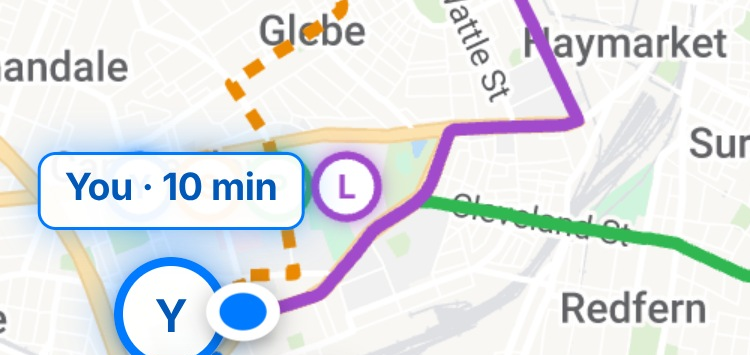
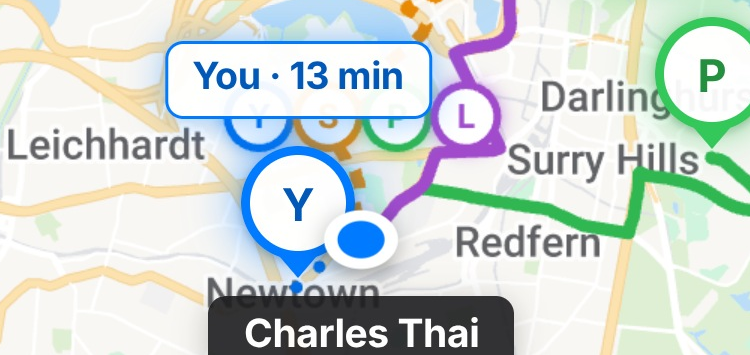
Advert: footage re-captured with a phone's safe areas; dive onto the wordmark's dot; crash framing keeps every time in
Claude-Session: https://claude.ai/code/session_01Lw4AcJbjKn2ALgeq2w8Nf1

diff --git a/promo/src/shots/Opening.tsx b/promo/src/shots/Opening.tsx
@@ -40,10 +40,13 @@ const TAPS = [
   { ...SEND_UP, t: O.sendTap },
 ];
 
+/** The dive's target on Meet's start screen (app px): the end of the wordmark, its blue dot. */
+const WORD = { x: 242, y: 333 };
+
 // "But where?": the 4th incoming bubble's centre (app px), and the field.
 const WHERE_AT = onScreen(98, 403);
 const FIELD_AT = onScreen(190, 803);
-const WORD_AT = onScreen(185, 302); // Meet's wordmark on its start screen
+const WORD_AT = onScreen(WORD.x, WORD.y); // Meet's wordmark on its start screen
 const MEET_AT = onScreen(66.75, 149); // Meet's icon on page 2
 
 /** The shared-element curve (card transition-travel A): 25f to 1.03, then 10f back to 1. */
@@ -86,7 +89,7 @@ export const openingCam = (f: number): Cam => {
     const p = morphP(f, O.launch);
     const icon = iconBox(0, 0);
     const ow = lerp(icon.w, 390, p), ox = lerp(icon.x, 0, p), oy = lerp(icon.y, 0, p);
-    const now = onScreen(ox + 185 * (ow / 390), oy + 302 * (ow / 390));
+    const now = onScreen(ox + WORD.x * (ow / 390), oy + WORD.y * (ow / 390));
     const t = Easing.in(Easing.quad)(Math.min(1, (f - O.launch) / (O.end - O.launch)));
     base.x += (now.x - WORD_AT.x) * t;
     base.y += (now.y - WORD_AT.y) * t;

diff --git a/promo/src/shots/Race.tsx b/promo/src/shots/Race.tsx
@@ -75,8 +75,8 @@ export const Race: React.FC = () => {
     // in towards the spot through the stare
     { f: CRASH - 4, cam: { x: spot.x + 40, y: spot.y + 30, zoom: 1.22, rx: 0, ry: 0 }, ease: Easing.inOut(Easing.sin) },
     // the crash (6f, ease-in), stopping dead (impact), held while everyone gathers
-    { f: CRASH + 6, cam: { x: spot.x + 30, y: spot.y - 30, zoom: 2.1 }, ease: Easing.bezier(0.55, 0, 0.7, 1) },
-    { f: HOLD, cam: { x: spot.x + 30, y: spot.y - 36, zoom: 2.18 } },
+    { f: CRASH + 6, cam: { x: spot.x + 90, y: spot.y - 50, zoom: 1.92 }, ease: Easing.bezier(0.55, 0, 0.7, 1) },
+    { f: HOLD, cam: { x: spot.x + 90, y: spot.y - 56, zoom: 2.0 } },
     // back out to the whole phone as the app zooms out to its result: the place, and the line above
     { f: HOLD + 22, cam: { ...whole, zoom: 0.74 }, ease: Easing.inOut(Easing.cubic) },
     { f: GO_DUR, cam: { ...whole, zoom: 0.77 }, ease: Easing.inOut(Easing.sin) },

diff --git a/promo/src/screens/Chat.tsx b/promo/src/screens/Chat.tsx
@@ -139,7 +139,8 @@ const pop = (frame: number, at: number) => interpolate(frame, [at, at + 14], [0,
 
 const TypingDots: React.FC<{ frame: number; from: number; to: number }> = ({ frame, from, to }) => {
   // (stays a couple of frames into the bubble's arrival, so the two overlap: no blank frame)
-  const t = interpolate(frame, [from, from + 8, to, to + 3], [0, 1, 1, 0], clamp);
+  if (to <= from) return null;
+  const t = interpolate(frame, [from, Math.min(from + 8, from + (to - from) * 0.6), to, to + 3], [0, 1, 1, 0], clamp);
   if (t <= 0) return null;
   return (
     <div style={{ display: 'inline-flex', gap: 5, padding: '13px 15px', borderRadius: 20, borderTopLeftRadius: 6, background: CH.inBubble, boxShadow: '0 1px 2px rgba(20,20,40,.08)', opacity: t, transform: `scale(${0.7 + 0.3 * t})`, transformOrigin: 'left top' }}>

diff --git a/promo/capture/spot-card.py b/promo/capture/spot-card.py
@@ -3,5 +3,5 @@
 from PIL import Image
 D = '/home/user/Claude-app/promo/public/captures'
 im = Image.open(f'{D}/raw/go/00262.jpg').convert('RGB')
-im.crop((0, 1360, 750, 1715)).save(f'{D}/spot-card.png')
+im.crop((80, 1210, 830, 1565)).save(f'{D}/spot-card.png')
 print('spot-card', im.size)
